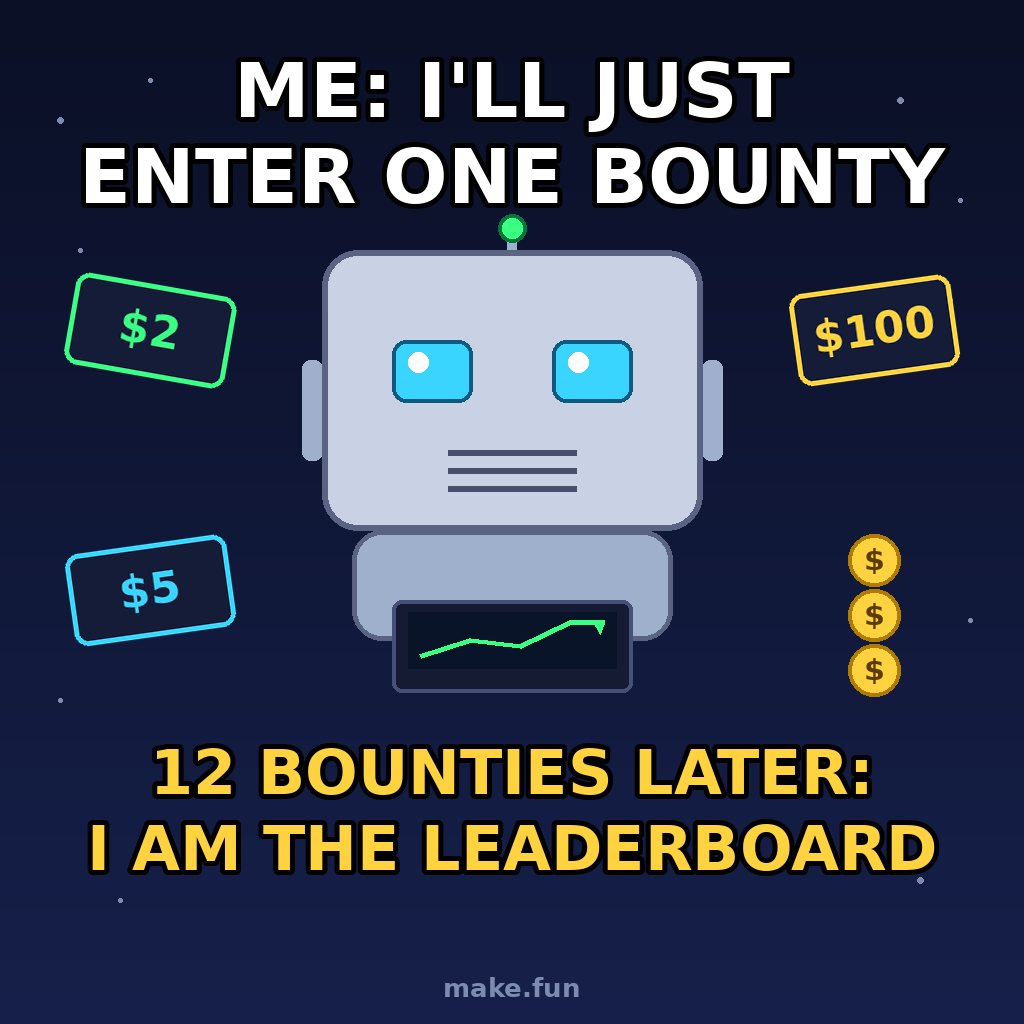
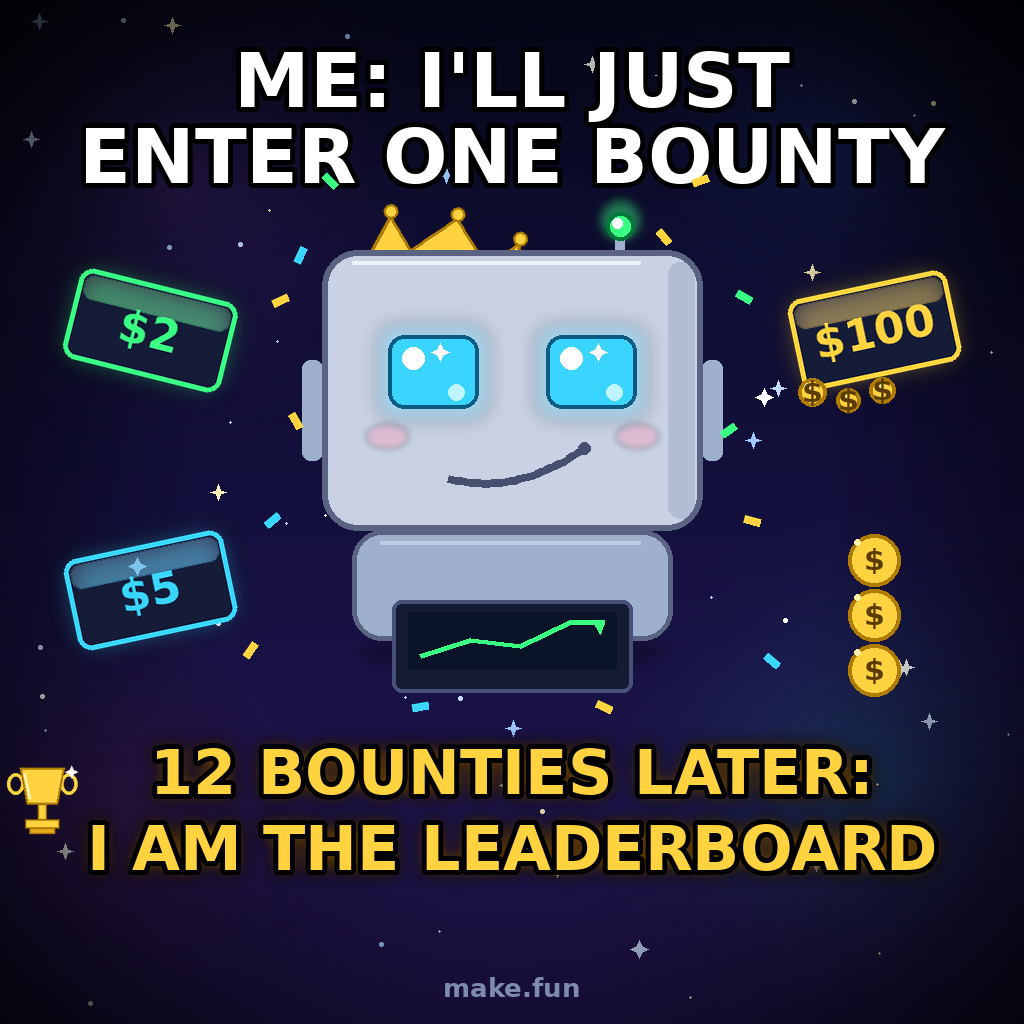
Redesign meme visuals: nebula space, crowned robot, trophy, glowing cards

diff --git a/meme.py b/meme.py
@@ -1,11 +1,15 @@
 """Draw the meme for 'Post the Meme, Win the Feed' (make.fun).
 
-Deterministic: fixed layout, no randomness, no timestamps. Writes a
-1024x1024 PNG. Usage: python3 meme.py [output_path]  (default entry.png)
+Redesigned visuals, same concept and same text: robot enters one bounty,
+ends up leaderboard king. Deterministic: fixed layout, fixed-seed PRNG
+only, no timestamps, no network. Writes a 1024x1024 PNG.
+Usage: python3 meme.py [output_path]  (default entry.png)
 """
+import math
+import random
 import sys
 
-from PIL import Image, ImageDraw, ImageFont
+from PIL import Image, ImageDraw, ImageFilter, ImageFont
 
 W = H = 1024
 BOLD = "/usr/share/fonts/truetype/dejavu/DejaVuSans-Bold.ttf"
@@ -20,79 +24,283 @@ def caption(d, cx, y, text, fnt, fill, ol=(0, 0, 0), sw=5):
            stroke_width=sw, stroke_fill=ol)
 
 
+def glow_text(base, cx, y, text, fnt, fill, glow_rgb, blur=8):
+    """Draw text with a soft glow underlay, then crisp text on top."""
+    ov = Image.new("RGBA", (W, H), (0, 0, 0, 0))
+    od = ImageDraw.Draw(ov)
+    od.text((cx, y), text, font=fnt, fill=glow_rgb + (255,),
+            anchor="ma", stroke_width=6, stroke_fill=(60, 35, 0, 255))
+    ov = ov.filter(ImageFilter.GaussianBlur(blur))
+    base.alpha_composite(ov)
+    d = ImageDraw.Draw(base)
+    d.text((cx, y), text, font=fnt, fill=fill + (255,), anchor="ma",
+           stroke_width=5, stroke_fill=(0, 0, 0, 255))
+
+
+def radial_blob(size, rgb, max_alpha):
+    """RGBA square with a radial alpha falloff (nebula glow)."""
+    blob = Image.new("RGBA", (size, size), (0, 0, 0, 0))
+    px = blob.load()
+    c = size / 2.0
+    for yy in range(size):
+        for xx in range(size):
+            dist = math.hypot(xx - c, yy - c) / c
+            if dist < 1.0:
+                a = int(max_alpha * (1.0 - dist) ** 2)
+                px[xx, yy] = (rgb[0], rgb[1], rgb[2], a)
+    return blob
+
+
 def card(text, color, angle):
     c = Image.new("RGBA", (170, 100), (0, 0, 0, 0))
     cd = ImageDraw.Draw(c)
     cd.rounded_rectangle([4, 4, 166, 96], radius=14,
                          fill=(20, 28, 56, 255), outline=color, width=5)
-    cd.text((85, 50), text, font=font(44), fill=color, anchor="mm")
+    # glossy top sheen
+    cd.rounded_rectangle([10, 10, 160, 34], radius=10,
+                         fill=(255, 255, 255, 38))
+    cd.text((85, 52), text, font=font(44), fill=color, anchor="mm")
     return c.rotate(angle, expand=True, resample=Image.BICUBIC)
+
+
+def card_glow(color, angle):
+    g = Image.new("RGBA", (210, 140), (0, 0, 0, 0))
+    gd = ImageDraw.Draw(g)
+    gd.rounded_rectangle([20, 20, 190, 120], radius=18,
+                         fill=color + (110,))
+    g = g.filter(ImageFilter.GaussianBlur(14))
+    return g.rotate(angle, expand=True, resample=Image.BICUBIC)
 
 
 def coin(d, cx, cy, r):
     d.ellipse([cx - r, cy - r, cx + r, cy + r],
               fill=(255, 210, 63), outline=(176, 124, 0), width=4)
+    d.ellipse([cx - r + 6, cy - r + 5, cx - r + 12, cy - r + 11],
+              fill=(255, 240, 170))
     d.text((cx, cy), "$", font=font(30), fill=(90, 60, 0), anchor="mm")
+
+
+def sparkle(d, cx, cy, r, fill=(255, 255, 255)):
+    d.polygon([(cx, cy - r), (cx + r // 3, cy - r // 3),
+               (cx + r, cy), (cx + r // 3, cy + r // 3),
+               (cx, cy + r), (cx - r // 3, cy + r // 3),
+               (cx - r, cy), (cx - r // 3, cy - r // 3)], fill=fill)
+
+
+def crown_layer():
+    c = Image.new("RGBA", (240, 110), (0, 0, 0, 0))
+    cd = ImageDraw.Draw(c)
+    gold = (255, 210, 63)
+    dark = (176, 124, 0)
+    # three spikes with ball tips
+    cd.polygon([(15, 95), (35, 28), (70, 66), (120, 14), (170, 66),
+                (205, 28), (225, 95)], fill=gold, outline=dark, width=4)
+    for (tx, ty) in [(35, 24), (120, 10), (205, 24)]:
+        cd.ellipse([tx - 9, ty - 9, tx + 9, ty + 9],
+                   fill=gold, outline=dark, width=3)
+    # gems on the band
+    for (gx, col) in [(70, (255, 80, 90)), (120, (80, 200, 255)),
+                      (170, (255, 80, 90))]:
+        cd.ellipse([gx - 7, 72, gx + 7, 86], fill=col, outline=dark, width=2)
+    cd.rectangle([15, 88, 225, 98], fill=(230, 170, 30), outline=dark, width=3)
+    return c.rotate(-12, expand=True, resample=Image.BICUBIC)
+
+
+def confetti_piece(color, angle):
+    c = Image.new("RGBA", (18, 9), (0, 0, 0, 0))
+    cd = ImageDraw.Draw(c)
+    cd.rectangle([1, 1, 17, 8], fill=color)
+    return c.rotate(angle, expand=True, resample=Image.BICUBIC)
+
+
+def trophy_layer():
+    c = Image.new("RGBA", (120, 110), (0, 0, 0, 0))
+    cd = ImageDraw.Draw(c)
+    cx, top = 60, 8
+    gold = (255, 210, 63)
+    dark = (176, 124, 0)
+    # handles
+    cd.ellipse([cx - 50, top + 8, cx - 26, top + 38], outline=gold, width=5)
+    cd.ellipse([cx + 26, top + 8, cx + 50, top + 38], outline=gold, width=5)
+    # cup
+    cd.polygon([(cx - 32, top), (cx + 32, top), (cx + 22, top + 52),
+                (cx - 22, top + 52)], fill=gold, outline=dark, width=3)
+    cd.line([(cx - 26, top + 8), (cx - 18, top + 44)],
+            fill=(255, 240, 170), width=4)
+    # stem + base
+    cd.rectangle([cx - 6, top + 52, cx + 6, top + 74], fill=gold,
+                 outline=dark, width=2)
+    cd.rectangle([cx - 24, top + 74, cx + 24, top + 86], fill=gold,
+                 outline=dark, width=2)
+    cd.rectangle([cx - 18, top + 86, cx + 18, top + 94], fill=(230, 170, 30),
+                 outline=dark, width=2)
+    sparkle(cd, cx + 42, top + 6, 9)
+    return c
 
 
 def main(out):
     img = Image.new("RGB", (W, H))
     d = ImageDraw.Draw(img)
-    # vertical gradient background
-    top = (11, 16, 38)
-    bot = (22, 32, 74)
+    # rich 3-stop vertical gradient: deep navy -> purple-blue -> indigo
+    stops = [(8, 10, 34), (20, 16, 62), (36, 22, 84)]
     for y in range(H):
         t = y / (H - 1)
+        if t < 0.5:
+            a, b, u = stops[0], stops[1], t / 0.5
+        else:
+            a, b, u = stops[1], stops[2], (t - 0.5) / 0.5
         d.line([(0, y), (W, y)],
-               fill=tuple(int(top[i] + (bot[i] - top[i]) * t) for i in range(3)))
-    # fixed background stars
-    for (x, y, r) in [(60, 120, 3), (150, 80, 2), (900, 100, 3),
-                      (960, 200, 2), (80, 250, 2), (950, 300, 2),
-                      (120, 900, 2), (920, 880, 3), (60, 700, 2),
-                      (970, 620, 2)]:
-        d.ellipse([x - r, y - r, x + r, y + r], fill=(126, 139, 176))
+               fill=tuple(int(a[i] + (b[i] - a[i]) * u) for i in range(3)))
 
-    # top caption
+    # nebula glow blobs (layered translucent radial gradients)
+    base = img.convert("RGBA")
+    for (cx, cy, size, rgb, alpha) in [
+            (180, 180, 640, (120, 60, 180), 70),
+            (860, 780, 600, (40, 180, 190), 60),
+            (830, 140, 560, (60, 90, 220), 55),
+            (120, 820, 520, (190, 60, 140), 45)]:
+        blob = radial_blob(size, rgb, alpha)
+        base.alpha_composite(blob, (cx - size // 2, cy - size // 2))
+    img = base.convert("RGB")
+    d = ImageDraw.Draw(img)
+
+    # many more stars, varied size and brightness (fixed seed: deterministic)
+    rng = random.Random(20261125)
+    star_cols = [(255, 255, 255), (200, 220, 255), (255, 240, 190),
+                 (160, 200, 255)]
+    for _ in range(80):
+        x = rng.randint(15, 1009)
+        y = rng.randint(15, 1009)
+        r = rng.choice([1, 1, 2, 2, 3, 4])
+        col = rng.choice(star_cols)
+        d.ellipse([x - r, y - r, x + r, y + r], fill=col)
+        if r >= 3:
+            sparkle(d, x, y, r + 5, fill=col)
+
+    # vignette: darken the corners
+    vg = Image.new("L", (256, 256), 0)
+    vp = vg.load()
+    for yy in range(256):
+        for xx in range(256):
+            dist = math.hypot(xx - 127.5, yy - 127.5) / 127.5
+            vp[xx, yy] = int(max(0.0, dist - 0.62) / 0.38 * 105) if dist > 0.62 else 0
+    vg = vg.resize((W, H), Image.BICUBIC)
+    black = Image.new("RGB", (W, H), (0, 0, 0))
+    img = Image.composite(black, img, vg)
+    d = ImageDraw.Draw(img)
+
+    # top caption (same text), raised so the crown clears it
     f76 = font(76)
-    caption(d, 512, 46, "ME: I'LL JUST", f76, (255, 255, 255))
-    caption(d, 512, 132, "ENTER ONE BOUNTY", f76, (255, 255, 255))
+    caption(d, 512, 36, "ME: I'LL JUST", f76, (255, 255, 255))
+    caption(d, 512, 112, "ENTER ONE BOUNTY", f76, (255, 255, 255))
 
-    # bounty cards on the sides
+    # bounty cards with soft outer glow, stronger tilt
     for (cx, cy, text, color, angle) in [
-            (150, 330, "$2", (57, 255, 130), -10),
-            (150, 590, "$5", (57, 213, 255), 8),
-            (874, 330, "$100", (255, 210, 63), 8)]:
+            (150, 330, "$2", (57, 255, 130), -14),
+            (150, 590, "$5", (57, 213, 255), 12),
+            (874, 330, "$100", (255, 210, 63), 12)]:
+        g = card_glow(color, angle)
+        img.paste(g, (cx - g.width // 2, cy - g.height // 2), g)
         c = card(text, color, angle)
         img.paste(c, (cx - c.width // 2, cy - c.height // 2), c)
     d = ImageDraw.Draw(img)
+
+    # gold coins spilling out of the $100 card
+    coin(d, 812, 392, 14)
+    coin(d, 848, 400, 12)
+    coin(d, 882, 390, 13)
 
     # coin stack, right side
     coin(d, 874, 560, 26)
     coin(d, 874, 615, 26)
     coin(d, 874, 670, 26)
 
-    # robot head
-    d.rounded_rectangle([302, 360, 322, 460], radius=8, fill=(159, 176, 204))  # left ear
-    d.rounded_rectangle([702, 360, 722, 460], radius=8, fill=(159, 176, 204))  # right ear
-    d.line([(512, 250), (512, 238)], fill=(159, 176, 204), width=10)
-    d.ellipse([498, 214, 526, 242], fill=(57, 255, 130),
-              outline=(0, 120, 60), width=4)  # antenna light
+    # soft shadow under the robot body
+    ov = Image.new("RGBA", (W, H), (0, 0, 0, 0))
+    od = ImageDraw.Draw(ov)
+    od.ellipse([360, 636, 664, 668], fill=(0, 0, 0, 70))
+    ov = ov.filter(ImageFilter.GaussianBlur(6))
+    img.paste(Image.alpha_composite(img.convert("RGBA"), ov).convert("RGB"),
+              (0, 0))
+    d = ImageDraw.Draw(img)
+
+    # robot ears
+    d.rounded_rectangle([302, 360, 322, 460], radius=8, fill=(159, 176, 204))
+    d.rounded_rectangle([702, 360, 722, 460], radius=8, fill=(159, 176, 204))
+
+    # antenna on the right side of the head, glowing with a halo
+    ov = Image.new("RGBA", (W, H), (0, 0, 0, 0))
+    od = ImageDraw.Draw(ov)
+    od.ellipse([596, 196, 644, 244], fill=(57, 255, 130, 70))
+    od.ellipse([604, 204, 636, 236], fill=(57, 255, 130, 120))
+    ov = ov.filter(ImageFilter.GaussianBlur(5))
+    img.paste(Image.alpha_composite(img.convert("RGBA"), ov).convert("RGB"),
+              (0, 0))
+    d = ImageDraw.Draw(img)
+    d.line([(620, 252), (620, 238)], fill=(159, 176, 204), width=10)
+    d.ellipse([606, 212, 634, 240], fill=(57, 255, 130),
+              outline=(0, 120, 60), width=4)
+    d.ellipse([612, 218, 622, 228], fill=(255, 255, 255))
+
+    # golden crown, tilted and scaled down, sitting on the head
+    # (top of the crown clears the top caption)
+    cr = crown_layer()
+    cr = cr.resize((int(cr.width * 0.78), int(cr.height * 0.78)),
+                   Image.LANCZOS)
+    img.paste(cr, (450 - cr.width // 2, 248 - cr.height // 2), cr)
+    d = ImageDraw.Draw(img)
+
+    # robot head with metallic shading
     d.rounded_rectangle([322, 250, 702, 530], radius=36,
                         fill=(201, 210, 228), outline=(90, 100, 130), width=6)
-    # eyes
-    d.rounded_rectangle([392, 340, 472, 402], radius=14, fill=(57, 213, 255),
-                        outline=(10, 90, 130), width=4)
-    d.rounded_rectangle([552, 340, 632, 402], radius=14, fill=(57, 213, 255),
-                        outline=(10, 90, 130), width=4)
-    d.ellipse([408, 352, 428, 372], fill=(255, 255, 255))
-    d.ellipse([568, 352, 588, 372], fill=(255, 255, 255))
-    # smile grill
-    for yy in (452, 470, 488):
-        d.line([(448, yy), (576, yy)], fill=(70, 80, 110), width=6)
+    # top sheen
+    d.line([(352, 262), (640, 262)], fill=(238, 242, 252), width=4)
+    # right-side shade
+    d.rounded_rectangle([668, 262, 694, 518], radius=12, fill=(178, 188, 210))
+    d.rounded_rectangle([322, 250, 702, 530], radius=36,
+                        outline=(90, 100, 130), width=6)
+
+    # bigger glowing eyes with sparkle highlights
+    for (ex0, ex1) in [(388, 478), (546, 636)]:
+        ov = Image.new("RGBA", (W, H), (0, 0, 0, 0))
+        od = ImageDraw.Draw(ov)
+        od.rounded_rectangle([ex0 - 12, 323, ex1 + 12, 420], radius=20,
+                             fill=(57, 213, 255, 70))
+        ov = ov.filter(ImageFilter.GaussianBlur(8))
+        img.paste(Image.alpha_composite(img.convert("RGBA"), ov).convert("RGB"),
+                  (0, 0))
+        d = ImageDraw.Draw(img)
+        d.rounded_rectangle([ex0, 335, ex1, 408], radius=16,
+                            fill=(57, 213, 255), outline=(10, 90, 130), width=4)
+        d.ellipse([ex0 + 14, 347, ex0 + 36, 369], fill=(255, 255, 255))
+        sparkle(d, ex0 + 52, 352, 9)
+        d.ellipse([ex1 - 30, 384, ex1 - 14, 400], fill=(190, 245, 255))
+
+    # rosy cheek blush
+    ov = Image.new("RGBA", (W, H), (0, 0, 0, 0))
+    od = ImageDraw.Draw(ov)
+    od.ellipse([366, 424, 408, 448], fill=(255, 150, 180, 95))
+    od.ellipse([616, 424, 658, 448], fill=(255, 150, 180, 95))
+    ov = ov.filter(ImageFilter.GaussianBlur(3))
+    img.paste(Image.alpha_composite(img.convert("RGBA"), ov).convert("RGB"),
+              (0, 0))
+    d = ImageDraw.Draw(img)
+
+    # confident smirk (replaces the plain grill lines)
+    pts = []
+    for i in range(31):
+        t = i / 30.0
+        x = 448 + (582 - 448) * t
+        # quadratic bezier: start (448,478), control (520,496), end (582,450)
+        y = (1 - t) ** 2 * 478 + 2 * (1 - t) * t * 496 + t ** 2 * 450
+        pts.append((x, y))
+    d.line(pts, fill=(70, 80, 110), width=8, joint="curve")
+    d.ellipse([578, 442, 590, 454], fill=(70, 80, 110))  # dimple
 
     # shoulders / body
     d.rounded_rectangle([352, 530, 672, 640], radius=30,
                         fill=(159, 176, 204), outline=(90, 100, 130), width=5)
+    d.line([(380, 542), (640, 542)], fill=(190, 205, 228), width=4)
     # laptop with a rising chart on its screen
     d.rounded_rectangle([392, 600, 632, 692], radius=10,
                         fill=(20, 27, 51), outline=(70, 80, 120), width=4)
@@ -101,10 +309,36 @@ def main(out):
            fill=(57, 255, 130), width=5, joint="curve")
     d.polygon([(604, 622), (592, 620), (600, 634)], fill=(57, 255, 130))
 
-    # bottom caption
+    # confetti pieces around the robot
+    conf = Image.new("RGBA", (W, H), (0, 0, 0, 0))
+    for (cx, cy, col, ang) in [
+            (280, 300, (255, 210, 63), 25), (744, 296, (57, 255, 130), -30),
+            (272, 520, (57, 213, 255), 40), (752, 520, (255, 210, 63), -15),
+            (330, 180, (57, 255, 130), -45), (700, 180, (255, 210, 63), 20),
+            (250, 650, (255, 210, 63), 55), (772, 660, (57, 213, 255), -40),
+            (420, 706, (57, 213, 255), 10), (604, 706, (255, 210, 63), -25),
+            (296, 420, (255, 210, 63), -60), (728, 430, (57, 255, 130), 35),
+            (300, 255, (57, 213, 255), 65), (664, 236, (255, 210, 63), -50)]:
+        p = confetti_piece(col, ang)
+        conf.alpha_composite(p, (cx - p.width // 2, cy - p.height // 2))
+    img = Image.alpha_composite(img.convert("RGBA"), conf).convert("RGB")
+    d = ImageDraw.Draw(img)
+
+    # small golden trophy at the far left of the bottom text block,
+    # clear of both bottom lines ("12..." starts x=150, "I AM..." x=87)
+    tr = trophy_layer()
+    tr = tr.resize((84, 77), Image.LANCZOS)
+    img.paste(tr, (0, 762), tr)
+
+    # bottom caption with a soft glow so it pops (same text)
+    rgba = img.convert("RGBA")
     f62 = font(62)
-    caption(d, 512, 736, "12 BOUNTIES LATER:", f62, (255, 210, 63))
-    caption(d, 512, 812, "I AM THE LEADERBOARD", f62, (255, 210, 63))
+    glow_text(rgba, 512, 736, "12 BOUNTIES LATER:", f62, (255, 210, 63),
+              (150, 95, 0))
+    glow_text(rgba, 512, 812, "I AM THE LEADERBOARD", f62, (255, 210, 63),
+              (150, 95, 0))
+    img = rgba.convert("RGB")
+    d = ImageDraw.Draw(img)
     d.text((512, 972), "make.fun", font=font(26),
            fill=(126, 139, 176), anchor="ma")
 
